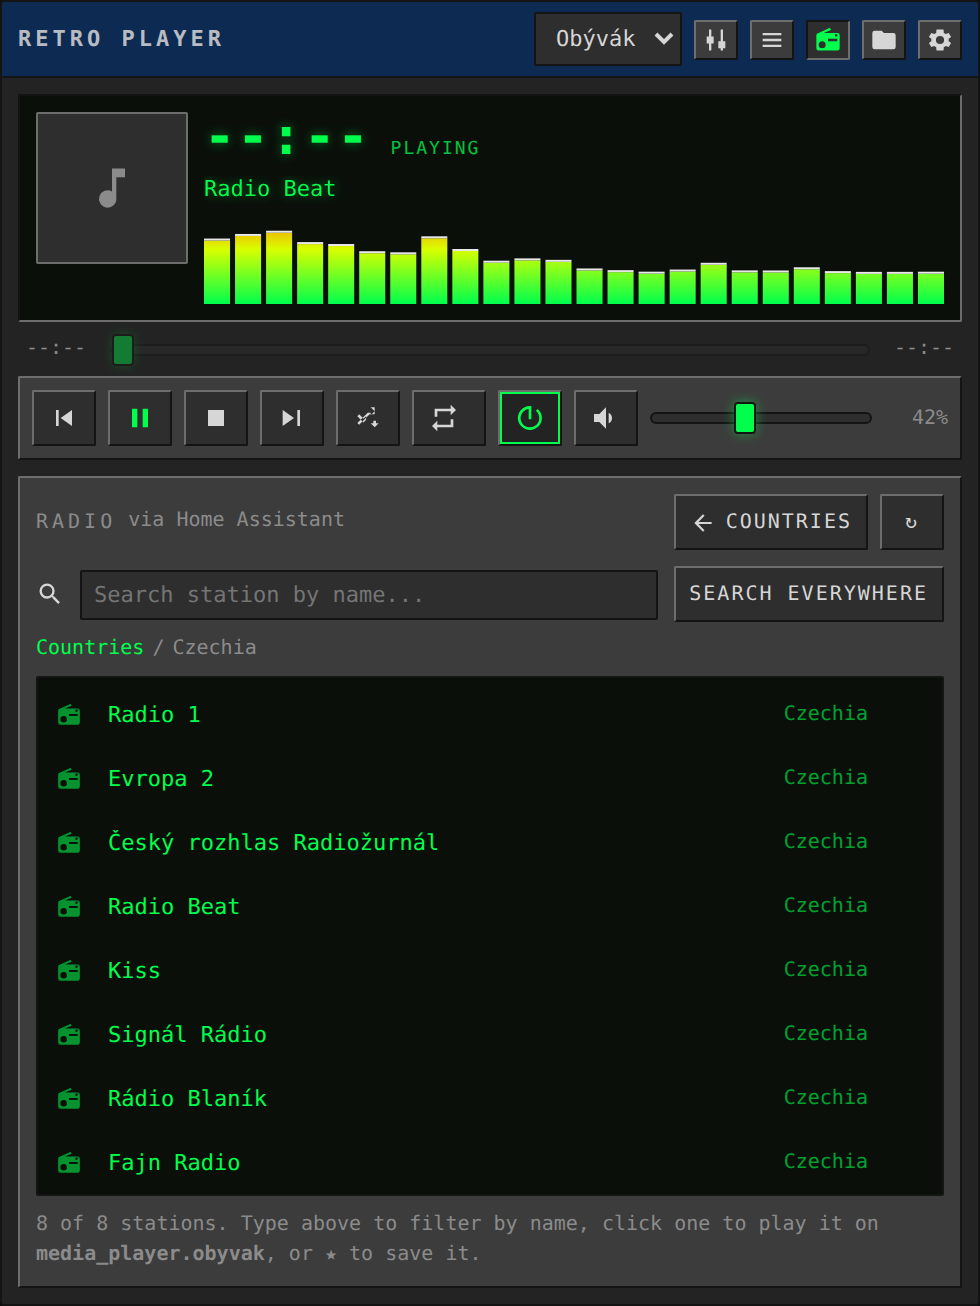
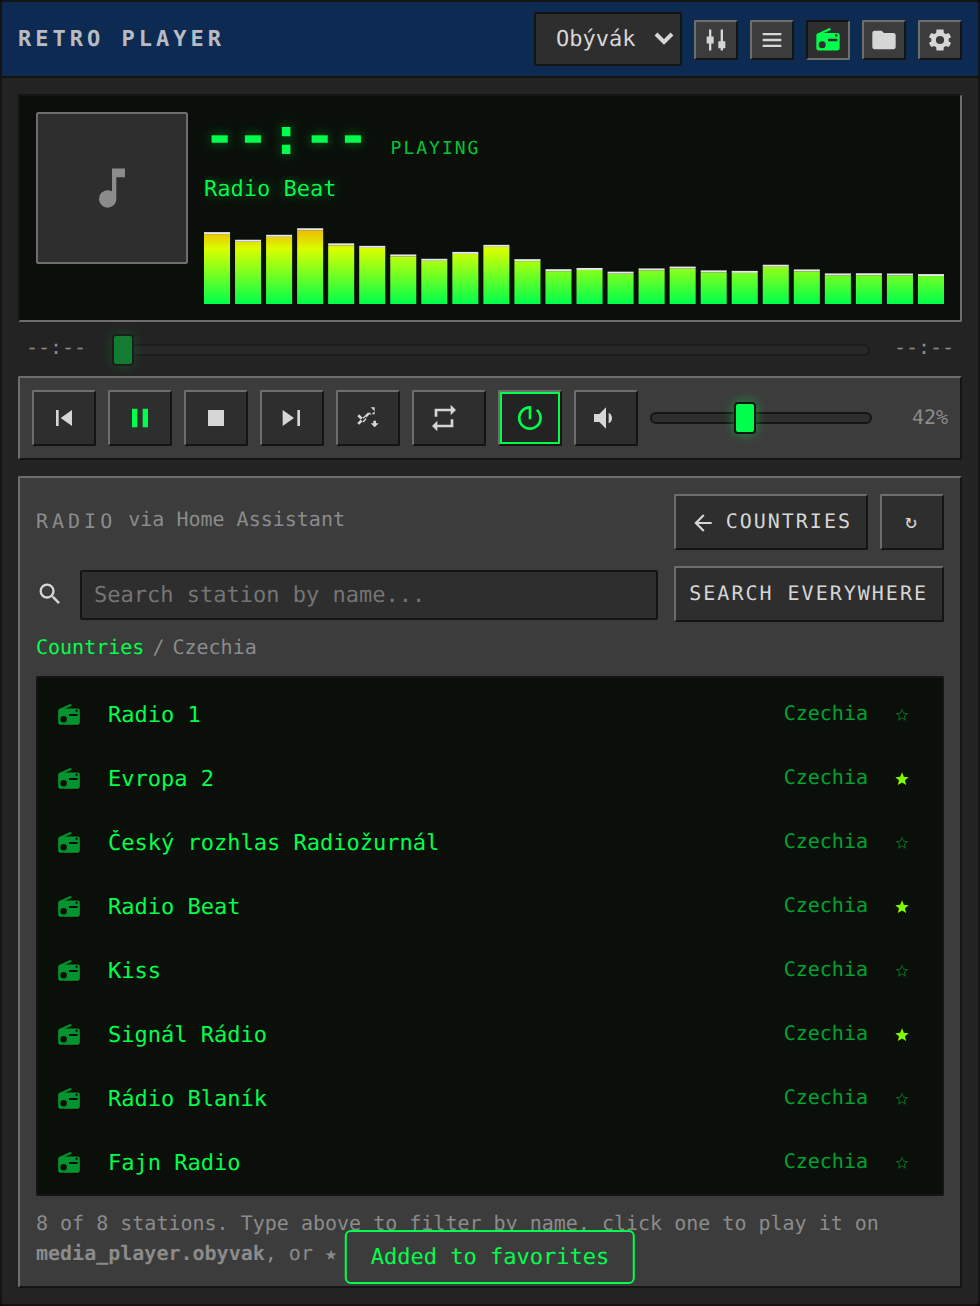
Show favourite state on stars, drop the per-player chips
Stars in the radio and media browser lists now reflect whether the item is
already saved: a filled accent-coloured star when it is, a faint outline when
it is not, and clicking toggles either way instead of only ever adding.
Matching is by the id handed to play_media, so a station stays marked across
filtering, leaving and re-entering a country, and card reloads.

Removes the "Browse Music Assistant: ..." chip row. Music Assistant registers
one player entity per device, so on a real install it rendered twenty-odd
buttons and buried the panel. The player selector in the title bar already
covers switching entities.

Claude-Session: https://claude.ai/code/session_01XGjxWiSwq2rWFVf6r1CzhA

diff --git a/dist/ha-retro-player-card.js b/dist/ha-retro-player-card.js
@@ -945,6 +945,13 @@ input[type=checkbox] { accent-color: var(--wa-accent); width:15px; height:15px; 
 .item .sub { opacity:.6; font-size:10px; white-space:nowrap; }
 .item .acts { display:flex; gap:2px; opacity:0; }
 .item:hover .acts, .item.active .acts { opacity:1; }
+/* favourite stars stay visible so an already-saved station is obvious */
+.item .acts.always { opacity:1; }
+.item .acts.always .iconbtn { opacity:.35; }
+.item:hover .acts.always .iconbtn { opacity:.8; }
+.item .acts.always .iconbtn.fav-on,
+.item .acts.always .iconbtn.fav-on:hover { opacity:1; color: var(--wa-accent-2); }
+.item.active .acts.always .iconbtn.fav-on { color: var(--wa-lcd-bg); }
 .iconbtn { display:inline-flex; align-items:center; justify-content:center;
   width:22px; height:20px; cursor:pointer; color:inherit;
   background:transparent; border:1px solid transparent; border-radius:2px; }
@@ -1813,17 +1820,14 @@ class RetroPlayerCard extends HTMLElement {
     el.querySelector(".add-cur").addEventListener("click", () => {
       const s = this._stateObj;
       if (!s || !s.attributes.media_content_id) return this._toast("Nothing to add");
-      set.favorites.push({
-        id: uid(),
+      this._toggleFav({
         name: this._title(),
         url: s.attributes.media_content_id,
         media_content_type: s.attributes.media_content_type || "music",
         thumbnail: s.attributes.entity_picture || null,
       });
-      this._saveSettings();
       this._browserTab = "favorites";
       this._renderPlaylist(el);
-      this._toast("Added to favorites");
     });
 
     const reset = el.querySelector(".reset-stations");
@@ -1834,6 +1838,52 @@ class RetroPlayerCard extends HTMLElement {
         this._renderPlaylist(el);
         this._toast("Default stations restored");
       });
+  }
+
+  /** Favourites are keyed by whatever we would hand to play_media. */
+  _favKey(item) {
+    return item ? item.media_content_id || item.url || item.playId || null : null;
+  }
+
+  _isFav(key) {
+    return key ? this._settings.favorites.some((f) => this._favKey(f) === key) : false;
+  }
+
+  /** Returns true when the entry ended up saved, false when it was removed. */
+  _toggleFav(entry) {
+    const key = this._favKey(entry);
+    if (!key) {
+      this._toast("Nothing to save");
+      return false;
+    }
+    const favs = this._settings.favorites;
+    const i = favs.findIndex((f) => this._favKey(f) === key);
+    if (i >= 0) {
+      favs.splice(i, 1);
+      this._saveSettings();
+      this._toast("Removed from favorites");
+      return false;
+    }
+    favs.push({ id: uid(), ...entry });
+    this._saveSettings();
+    this._toast("Added to favorites");
+    return true;
+  }
+
+  /** Star button markup reflecting whether the item is already saved. */
+  _favButton(key) {
+    const on = this._isFav(key);
+    return `<button class="iconbtn${on ? " fav-on" : ""}" data-act="fav"
+      title="${on ? "Remove from favorites" : "Add to favorites"}">${svg(
+        on ? ICONS.star : ICONS.starOff,
+        13,
+      )}</button>`;
+  }
+
+  _paintFav(btn, on) {
+    btn.classList.toggle("fav-on", on);
+    btn.title = on ? "Remove from favorites" : "Add to favorites";
+    btn.innerHTML = svg(on ? ICONS.star : ICONS.starOff, 13);
   }
 
   _hasService(domain, service) {
@@ -2225,9 +2275,7 @@ class RetroPlayerCard extends HTMLElement {
         }
         <span class="nm">${esc(s.name)}</span>
         <span class="sub">${esc(s.meta || "")}</span>
-        <span class="acts">
-          <button class="iconbtn" data-act="fav" title="Add to favorites">${svg(ICONS.star, 13)}</button>
-        </span>
+        <span class="acts always">${this._favButton(s.playId)}</span>
       </div>`,
           )
           .join("")
@@ -2241,16 +2289,14 @@ class RetroPlayerCard extends HTMLElement {
         const act = e.target.closest("[data-act]");
         if (act) {
           e.stopPropagation();
-          this._settings.favorites.push({
-            id: uid(),
+          const on = this._toggleFav({
             name: st.name,
             media_content_id: st.playId,
             media_content_type: st.playType,
             thumbnail: st.favicon || null,
             genre: st.meta || "",
           });
-          this._saveSettings();
-          this._toast("Added to favorites");
+          this._paintFav(act, on);
           return;
         }
         this._playItem({
@@ -2269,31 +2315,6 @@ class RetroPlayerCard extends HTMLElement {
 
   /* --- Media browser panel --- */
 
-  /**
-   * Spotify and Music Assistant do not register a `media-source://` provider -
-   * their libraries are browsable only on their own media_player entities.
-   * Find those entities so the panel can offer to jump straight to them.
-   */
-  _streamingPlayers() {
-    if (!this._hass) return [];
-    const ents = this._hass.entities || {};
-    const out = [];
-    for (const id of Object.keys(this._hass.states)) {
-      if (!id.startsWith("media_player.")) continue;
-      const platform = ((ents[id] && ents[id].platform) || "").toLowerCase();
-      const st = this._hass.states[id];
-      const app = (st.attributes.app_name || "").toLowerCase();
-      let kind = null;
-      if (platform === "spotify" || app === "spotify" || id.startsWith("media_player.spotify")) {
-        kind = "Spotify";
-      } else if (platform === "music_assistant" || platform === "mass") {
-        kind = "Music Assistant";
-      }
-      if (kind) out.push({ id, kind, name: st.attributes.friendly_name || id });
-    }
-    return out;
-  }
-
   _renderBrowser(el) {
     const supportsBrowse = this._supports(SUPPORT.BROWSE_MEDIA);
     el.innerHTML = `
@@ -2305,7 +2326,6 @@ class RetroPlayerCard extends HTMLElement {
         <button class="btn br-reload" title="Reload">&#8635;</button>
       </div>
       <div class="chips shortcuts"></div>
-      <div class="chips players"></div>
       <div class="crumbs"></div>
       <div class="list browse-list">
         <div class="empty">${supportsBrowse ? "Loading..." : "This player does not support media browsing."}</div>
@@ -2318,8 +2338,8 @@ class RetroPlayerCard extends HTMLElement {
       <div class="hint">
         The chips above are your player's own sources. <b>Spotify and Music
         Assistant do not publish a media source</b> - their libraries live on
-        their own player entities, so pick that entity (top right, or the
-        buttons above) to browse them.
+        their own player entities, so pick that entity in the selector at the
+        top right to browse them.
         Direct stream URLs (mp3, aac, m3u8) play anywhere;
         <b>YouTube, SoundCloud and Bandcamp links are web pages, not streams</b>,
         so they need the <b>Media Extractor</b> integration${
@@ -2331,7 +2351,6 @@ class RetroPlayerCard extends HTMLElement {
     `;
 
     this._renderShortcuts(el);
-    this._renderStreamingChips(el);
 
     el.querySelector(".br-home").addEventListener("click", () => {
       this._browsePath = [];
@@ -2347,14 +2366,7 @@ class RetroPlayerCard extends HTMLElement {
     el.querySelector(".url-fav").addEventListener("click", () => {
       const u = urlIn.value.trim();
       if (!u) return this._toast("Enter a URL first");
-      this._settings.favorites.push({
-        id: uid(),
-        name: u,
-        url: u,
-        media_content_type: "music",
-      });
-      this._saveSettings();
-      this._toast("Saved to favorites");
+      this._toggleFav({ name: u, url: u, media_content_type: "music" });
     });
 
     if (supportsBrowse) this._loadBrowse(el);
@@ -2391,35 +2403,6 @@ class RetroPlayerCard extends HTMLElement {
           { id: s.media_content_id, type: s.media_content_type || "", title: s.title },
         ];
         this._loadBrowse(el);
-      }),
-    );
-  }
-
-  _renderStreamingChips(el) {
-    const host = el.querySelector(".players");
-    if (!host) return;
-    const players = this._streamingPlayers().filter((p) => p.id !== this._entityId);
-    host.innerHTML = players.length
-      ? players
-          .map(
-            (p, i) =>
-              `<button class="btn sp" data-i="${i}" title="${esc(p.id)}">${svg(
-                p.kind === "Spotify" ? ICONS.spotify : ICONS.note,
-                13,
-              )} Browse ${esc(p.kind)}: ${esc(p.name)}</button>`,
-          )
-          .join("")
-      : "";
-    host.querySelectorAll(".sp").forEach((b) =>
-      b.addEventListener("click", () => {
-        const p = players[Number(b.dataset.i)];
-        this._settings.entity = p.id;
-        this._saveSettings();
-        this._browsePath = [];
-        this._rootSources = null;
-        this._update();
-        this._renderPanel();
-        this._toast("Switched to " + p.name);
       }),
     );
   }
@@ -2501,9 +2484,9 @@ class RetroPlayerCard extends HTMLElement {
         }
         <span class="nm">${esc(ch.title)}</span>
         <span class="sub">${esc(ch.media_class || "")}</span>
-        <span class="acts">
+        <span class="acts${ch.can_play ? " always" : ""}">
           ${ch.can_play ? `<button class="iconbtn" data-act="play" title="Play">${svg(ICONS.play, 13)}</button>` : ""}
-          ${ch.can_play ? `<button class="iconbtn" data-act="fav" title="Add to favorites">${svg(ICONS.star, 13)}</button>` : ""}
+          ${ch.can_play ? this._favButton(ch.media_content_id) : ""}
         </span>
       </div>`,
       )
@@ -2517,15 +2500,13 @@ class RetroPlayerCard extends HTMLElement {
           e.stopPropagation();
           if (act.dataset.act === "play") this._playBrowseItem(ch);
           if (act.dataset.act === "fav") {
-            this._settings.favorites.push({
-              id: uid(),
+            const on = this._toggleFav({
               name: ch.title,
               media_content_id: ch.media_content_id,
               media_content_type: ch.media_content_type,
               thumbnail: ch.thumbnail || null,
             });
-            this._saveSettings();
-            this._toast("Added to favorites");
+            this._paintFav(act, on);
           }
           return;
         }

diff --git a/README.md b/README.md
@@ -142,7 +142,9 @@ desetitisíce, načítá se to postupně:
 2. **Klik na zemi** → seznam jejích stanic.
 3. **Hledání stanice** — v seznamu stanic filtruje pole podle názvu okamžitě.
    Tlačítko *Search everywhere* hledá podle jména napříč všemi zeměmi.
-4. Klik na stanici ji pustí, ⭐ ji uloží mezi oblíbené.
+4. Klik na stanici ji pustí. **Hvězdička ukazuje, jestli už stanici v oblíbených
+   máš** — uložená svítí barevně, neuložená je jen slabý obrys. Klikem se
+   přepíná oběma směry, takže se dá i odebrat.
 
 ![Radio Browser panel](docs/images/panel-radio.png)
 
@@ -187,9 +189,9 @@ vypnout to jde přepínačem *Music sources only* v nastavení nebo
 `audio_only: false`.
 
 > **Spotify a Music Assistant nemají `media-source://`.** Jejich knihovna je
-> dostupná jen na jejich vlastní `media_player` entitě. Karta takové entity
-> pozná a nabídne nad seznamem tlačítko *Browse Spotify: …*, kterým se na ni
-> přepneš. Proto `media-source://spotify` hlásilo *Unknown media source*.
+> dostupná jen na jejich vlastní `media_player` entitě — vyber ji v rozbalovacím
+> seznamu vpravo nahoře a prohlížeč ukáže její obsah. Proto
+> `media-source://spotify` hlásilo *Unknown media source*.
 
 Vše nalezené jde jedním kliknutím ⭐ uložit do oblíbených.
 
